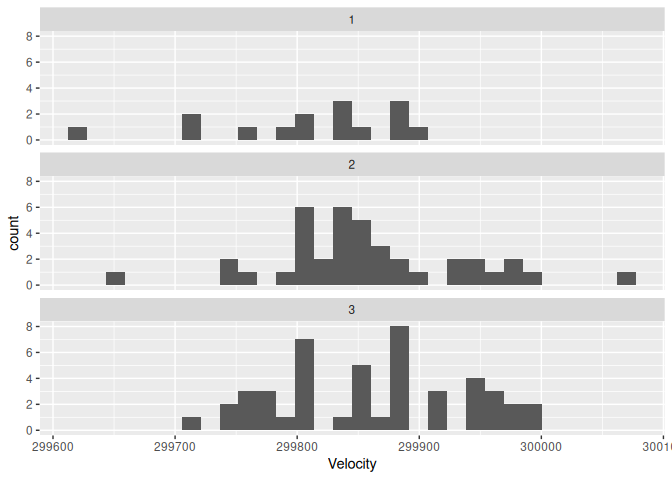
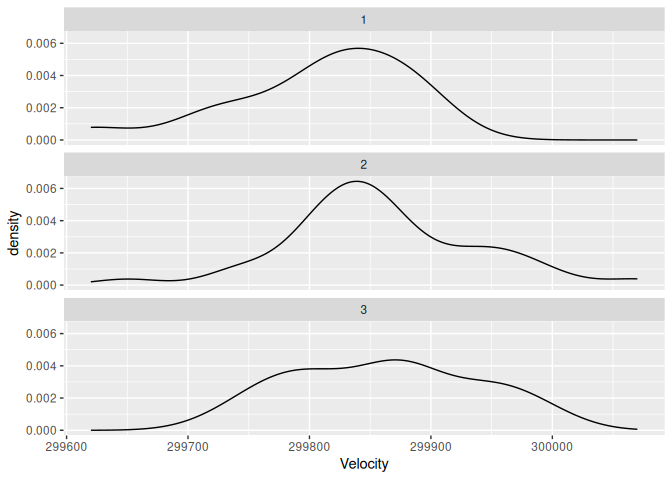
revised challenge 02

diff --git a/challenges/c02-michelson-assignment.md b/challenges/c02-michelson-assignment.md
@@ -357,18 +357,17 @@ outliers.
 ``` r
 df_michelson |>
   ggplot(mapping = aes(x = Velocity)) +
-  geom_histogram(bins = 30) +
+  geom_density() +
   facet_wrap(~ Distinctness, nrow = 3)
 ```
 
 ![](c02-michelson-assignment_files/figure-gfm/unnamed-chunk-4-1.png)<!-- -->
 
-These histograms show distribution of velocity, but separated by
-distinctiveness. The graph of `Distinctiveness = 2` has a much larger
-peak in the middle than the other two. The graph of
+These density plots show distribution of velocity, separated by
+distinctiveness. - The graph of `Distinctiveness = 2` has a much larger
+peak in the middle than the other two. - The graph of
 `Distinctiveness = 3` has values that are more spread out and less
-concentrated in the middle. There are many more distinctiveness 2 and 3
-samples than there are distinctiveness 1.
+concentrated in the middle.
 
 **Observations**:
 
